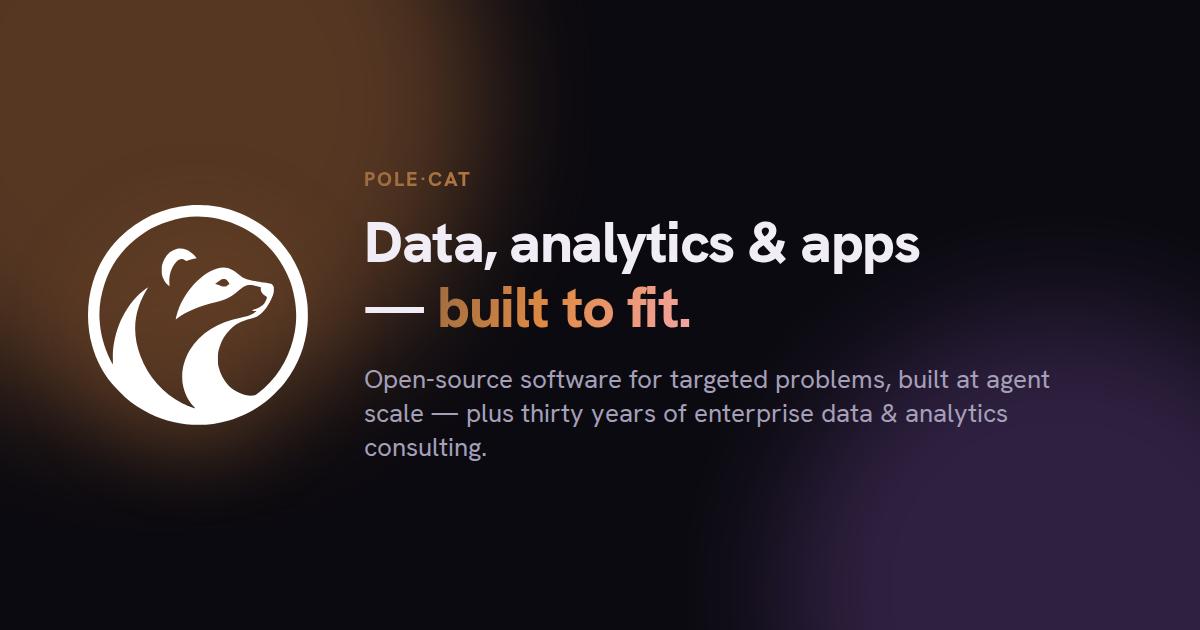
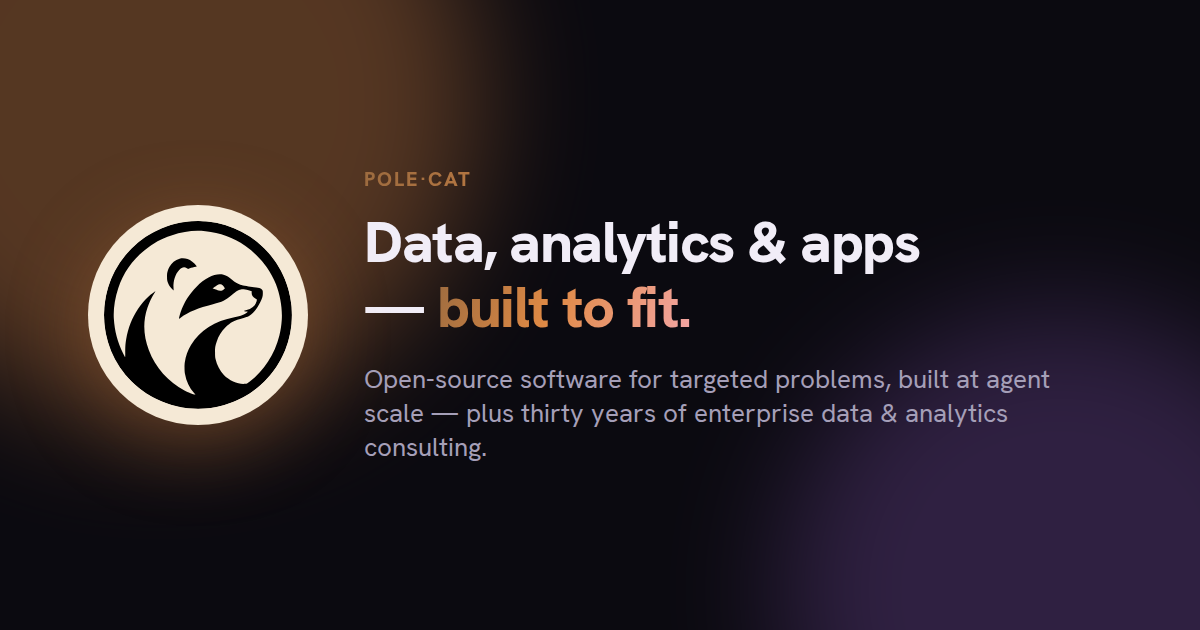
brand v2: the mark never goes white — coins on every dark surface
Applies the updated logo-use guidelines (Kevin's brand package, 2026-07-30):
the mark is dark on a light ground, ALWAYS. On dark surfaces it sits on a
light round coin (cream, echoing its own ring, mark at 85%) instead of being
knocked out to white.

- site.css: .brand-mark/.hero-mascot drop filter:invert(1) for the coin
  treatment (cream circle + ~7.5% padding) on dark; bare black mark on light.
- favicon.svg is now the cream coin itself — no more scheme-aware white
  variant in dark browser chrome.
- og-image template: mark on a cream coin; og-image.png regenerated.
- docs/BRAND.md § mark: merged the one-rule text (coins, 85%, invert(1)
  retired, white-on-dark last-resort only, favicon = coin).
- site changelog v25 (stamped, along with the two unstamped design-pass
  entries already on main).

Smoke green (demo all palettes + site, desktop + mobile).

Changed region(s): [[0.0617, 0.3016, 0.2775, 0.6937]]

diff --git a/site/js/changelog.js b/site/js/changelog.js
@@ -4,13 +4,18 @@
 // scripts/stamp-changelog.mjs.
 
 export const CHANGELOG = [
-  { v: 24, title: 'The mark goes vector', kind: 'polish', ts: '',
+  { v: 25, title: 'The mark never goes white: coins on every dark surface', kind: 'polish', ts: '2026-07-30T23:36:23Z',
+    items: [
+      'New brand rule, applied everywhere the mark appears: it stays dark on a light ground, always. On dark surfaces it now sits on a small cream coin that echoes its own ring, instead of being flipped to white.',
+      'The nav mark, the floating hero mark, the share card, and the favicon all wear the coin now — the favicon no longer swaps to a white mark in dark browser chrome.',
+    ] },
+  { v: 24, title: 'The mark goes vector', kind: 'polish', ts: '2026-07-30T23:36:23Z',
     items: [
       'The new Polecat mark is now a true vector — 3 KB of paths instead of a megabyte of pixels — so it renders razor-sharp at every size, from the favicon to the hero.',
       'The favicon is the new mark at last (the old mascot\'s final post), and it adapts to your browser theme: ink on light, warm white on dark.',
       'The share card regenerated from the vector, crisper than before.',
     ] },
-  { v: 23, title: 'The design system arrives: new mark, brand typeface, round app badges', kind: 'feature', ts: '',
+  { v: 23, title: 'The design system arrives: new mark, brand typeface, round app badges', kind: 'feature', ts: '2026-07-30T23:36:23Z',
     items: [
       'The new monoline Polecat mark replaces the old mascot in the nav, the hero, and the share card. One drawn line, head and tail in a ring — same animal, sharper suit.',
       'The whole site now sets in Hanken Grotesk, the fleet\'s brand face — self-hosted, swap-displayed, and preloaded so first paint stays instant. Display type got a touch bigger to match.',

diff --git a/site/css/site.css b/site/css/site.css
@@ -107,13 +107,15 @@ section.wrap { padding-top: 80px; padding-bottom: 80px; }
 .hero-mascot { filter: var(--shadow-mascot); animation: float var(--d-float) ease-in-out infinite; }
 @keyframes float { 0%,100% { transform: translateY(0); } 50% { transform: translateY(-10px); } }
 
-/* The mark ships as a black-alpha PNG (the monoline logo). On dark surfaces
-   invert it to white; on the cream light theme it stays ink-black. The
-   drop-shadow filter above still applies to the hero via the combined list. */
-.brand-mark { filter: invert(1); }
-[data-theme="light"] .brand-mark { filter: none; }
-.hero-mascot { filter: invert(1) var(--shadow-mascot); }
-[data-theme="light"] .hero-mascot { filter: var(--shadow-mascot); }
+/* Brand v2 logo rule: the mark is dark on a light ground, ALWAYS. On dark
+   surfaces it is never knocked out to white — it sits on a light round coin
+   (cream, echoing the mark's own ring; mark at 85% via padding). On the
+   light theme the bare black mark sits directly on the surface. */
+.brand-mark, .hero-mascot { box-sizing: border-box; border-radius: 50%; }
+.brand-mark { background: #F5E9D6; padding: 2px; }
+[data-theme="light"] .brand-mark { background: none; padding: 0; }
+.hero-mascot { background: #F5E9D6; padding: 7px; filter: var(--shadow-mascot); }
+[data-theme="light"] .hero-mascot { background: none; padding: 0; }
 .hero h1 { margin: 14px 0 6px; }
 .hero-sub { font-size: var(--t-hero-sub); color: var(--text-2); max-width: 640px; margin: 16px auto 0; }
 .hero-cta { display: flex; gap: 12px; justify-content: center; flex-wrap: wrap; margin-top: 30px; }

diff --git a/scripts/og-image-template.html b/scripts/og-image-template.html
@@ -34,8 +34,10 @@
   }
   .mark {
     flex: none; width: 220px; height: 220px;
-    /* the mark ships black-on-alpha; invert to white for the dark card */
-    filter: invert(1) drop-shadow(0 18px 40px rgba(224,138,69,.28));
+    /* Brand v2: never knock the mark out to white — on the dark card it sits
+       on a cream coin (mark at 85% via padding), staying dark-on-light. */
+    box-sizing: border-box; border-radius: 50%; background: #F5E9D6; padding: 16px;
+    filter: drop-shadow(0 18px 40px rgba(224,138,69,.28));
   }
   .copy { flex: 1; min-width: 0; }
   .kicker {

diff --git a/docs/BRAND.md b/docs/BRAND.md
@@ -7,14 +7,32 @@ without flattening each app's own character. Living document: it starts from
 what the fleet already ships and grows as the identity matures. When code and
 this doc disagree, fix whichever is wrong in the same PR.
 
-> **The Polecat mark** is the new monoline head-and-tail in a ring.
+> **The Polecat mark** is the monoline head-and-tail in a ring.
 > **`site/assets/logo-mark.svg` is the canonical vector** (fill:
-> `currentColor`, defaults to black; dark surfaces invert it with
-> `filter: invert(1)`). `site/assets/favicon.svg` is the scheme-aware favicon
-> variant (ink on light browser UI, warm white on dark). It superseded the
-> legacy mascot (`site/assets/polecat.svg`, kept for history) in the 2026-07
-> design pass. The master mark lives on polecat.live only — apps identify
-> with their own glyph tile (below), never the polecat.
+> `currentColor`, defaults to black). **The one rule (brand v2, 2026-07-30):
+> the mark is dark on a light ground — ALWAYS.**
+>
+> 1. **Light surfaces** — the bare black mark sits directly on the surface
+>    (`#FFFFFF`, `#FBF7F1`, cream `#F5E9D6`).
+> 2. **Dark surfaces, including dark mode** — never knock the mark out to
+>    white. Keep it dark on a light round **coin** that echoes its own ring:
+>    cream `#F5E9D6` on the warm site dark and brand-orange surfaces, white
+>    where cream clashes (the cooler app dark). Coins are full-bleed circles
+>    with the mark at 85% — padding built in (CSS: circle background +
+>    ~7.5% padding on the bare mark, see `site/css/site.css .brand-mark`).
+> 3. **Light-on-dark is the exception, not an option** — allowed only where a
+>    coin is physically impossible (single-color reverse print, monochrome OS
+>    masks). `filter: invert(1)` on the mark is retired.
+>
+> Clear space ≥ the ring's stroke width (~7% of mark width); minimum 24px on
+> screen; one color only — no gradients, no accent fills, no recoloring, and
+> never the bare black mark on a dark surface "for subtlety".
+> **Favicon/PWA:** `site/assets/favicon.svg` IS the cream coin — it keeps the
+> mark dark-on-light even in dark browser chrome (the scheme-aware white
+> variant is retired). The legacy mascot (`site/assets/polecat.svg`) stays
+> retired — never on new work, never on app pages. The master mark lives on
+> polecat.live (and the app.polecat.live stub) only — apps identify with
+> their own glyph tile (below), never the polecat.
 
 ## Voice
 
